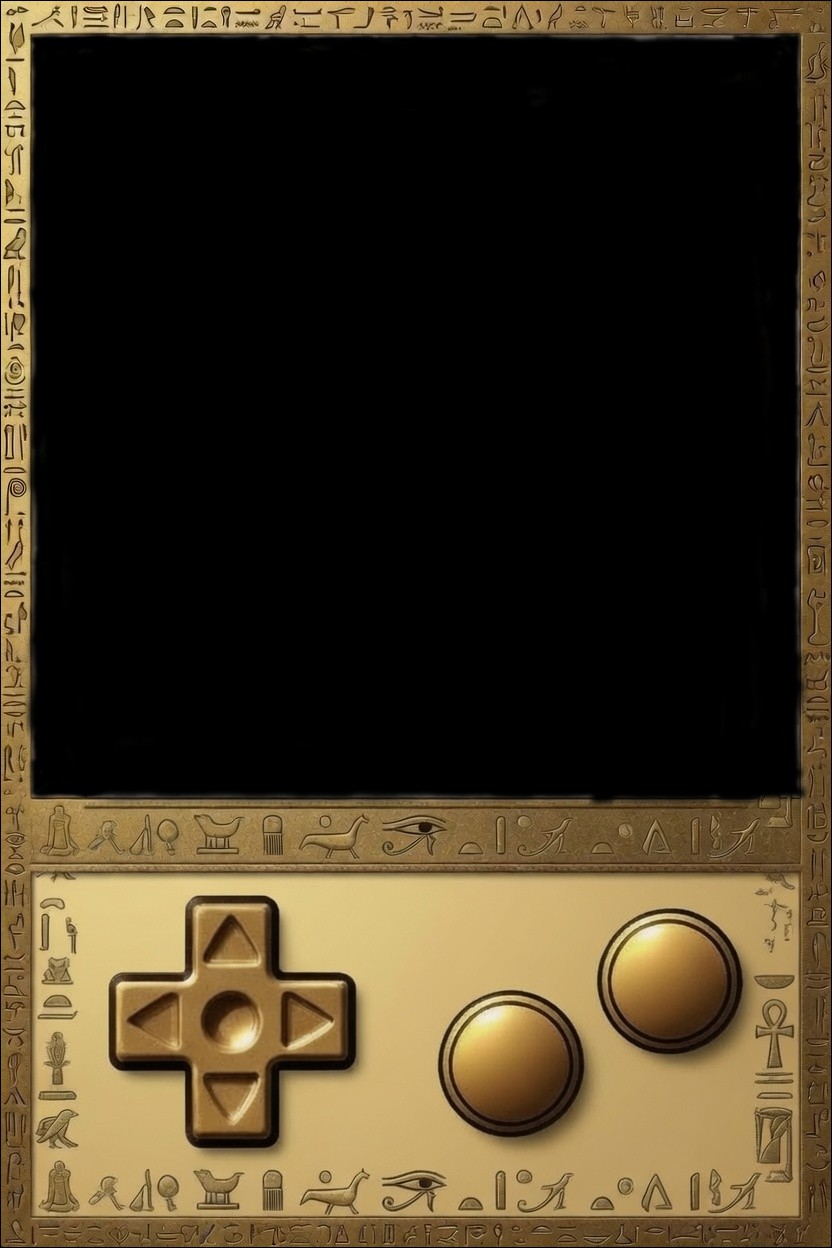
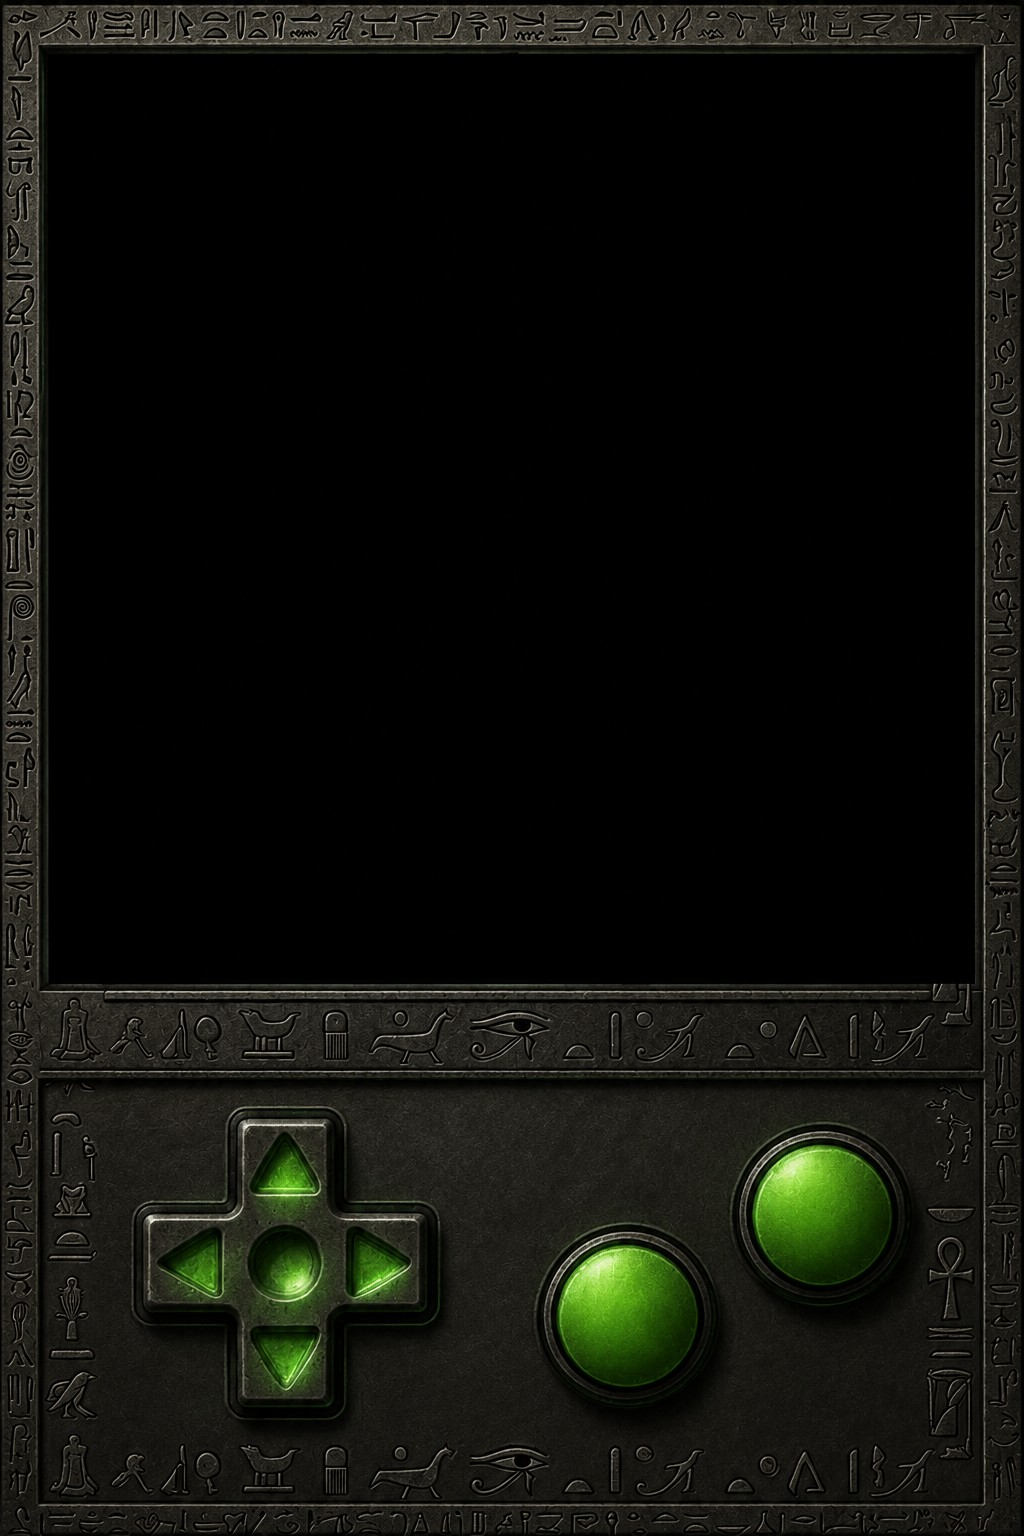
New dark/green console art + matching switch & mute
- Replace the gold/sandstone console shell with the dark stone + green-glow
  handheld (fits the death-cult look). Same 2:3 template, so the screen bezel
  and d-pad/button hit zones line up; nudged the bezel bounds to the new art's
  exact measurements and updated the aspect ratio.
- Restyle the power switch from a gold wood pill to a dark gunmetal toggle
  that glows green when ON (knob geometry unchanged so the drag logic still
  works), and recolor the mute button gold -> green to match.

Claude-Session: https://claude.ai/code/session_019JSm2BXiAiXnfPc2sSphak

diff --git a/web/styles.css b/web/styles.css
@@ -30,7 +30,7 @@ html, body {
 .console {
   position: relative;
   width: min(92vw, 480px);
-  aspect-ratio: 832 / 1248;
+  aspect-ratio: 1024 / 1536;
   user-select: none;
   -webkit-user-select: none;
   filter: drop-shadow(0 18px 40px rgba(0, 0, 0, 0.6));
@@ -50,10 +50,10 @@ html, body {
 /* ===== Screen ===== */
 .screen-bezel {
   position: absolute;
-  left: 3.97%;
-  top: 2.96%;
-  width: 91.71%;
-  height: 60.58%;
+  left: 4.69%;
+  top: 3.45%;
+  width: 90.53%;
+  height: 60.61%;
   overflow: hidden;
   border-radius: 2px;
   background: #000;
@@ -95,22 +95,27 @@ html, body {
 .power-track {
   position: absolute;
   inset: 0;
-  background: linear-gradient(180deg, #7a5330 0%, #4d3220 55%, #3a2414 100%);
-  border: 0.5cqw solid #241608;
+  background: linear-gradient(180deg, #2b2e2b 0%, #17191a 55%, #0d0f0e 100%);
+  border: 0.5cqw solid #050706;
   border-radius: 2.6cqw;
-  box-shadow: inset 0 0.5cqw 0 rgba(210, 160, 90, 0.35),
-              inset 0 -0.6cqw 0.8cqw rgba(0, 0, 0, 0.55),
-              0 0.5cqw 0.7cqw rgba(0, 0, 0, 0.45);
+  box-shadow: inset 0 0.5cqw 0 rgba(120, 140, 120, 0.18),
+              inset 0 -0.6cqw 0.8cqw rgba(0, 0, 0, 0.7),
+              0 0.5cqw 0.7cqw rgba(0, 0, 0, 0.5);
   overflow: hidden;
 }
-/* recessed channel the knob rides in */
+/* recessed channel the knob rides in — faint green glow when powered */
 .power-track::before {
   content: '';
   position: absolute;
   left: 5%; right: 5%; top: 33%; height: 34%;
-  background: rgba(18, 10, 4, 0.6);
+  background: rgba(6, 10, 6, 0.7);
   border-radius: 2cqw;
-  box-shadow: inset 0 0.3cqw 0.5cqw rgba(0, 0, 0, 0.7);
+  box-shadow: inset 0 0.3cqw 0.5cqw rgba(0, 0, 0, 0.8);
+}
+.power-switch[aria-pressed="true"] .power-track {
+  box-shadow: inset 0 0.5cqw 0 rgba(120, 220, 120, 0.25),
+              inset 0 -0.6cqw 0.8cqw rgba(0, 0, 0, 0.7),
+              0 0 1.6cqw rgba(90, 200, 90, 0.4);
 }
 
 .power-txt {
@@ -120,16 +125,16 @@ html, body {
   font-family: 'Press Start 2P', 'Courier New', monospace;
   font-size: 1.7cqw;
   letter-spacing: 0.1cqw;
-  color: #e6c877;
-  opacity: 0.85;
+  color: #5c6b5a;
+  opacity: 0.9;
   pointer-events: none;
-  text-shadow: 0 0.2cqw 0 rgba(0, 0, 0, 0.6);
+  text-shadow: 0 0.2cqw 0 rgba(0, 0, 0, 0.7);
 }
 .power-txt.power-off { right: 8%; }
 .power-txt.power-on  { left: 8%; }
 .power-switch[aria-pressed="true"] .power-txt.power-on {
-  color: #b6f0a0;
-  text-shadow: 0 0 1.6cqw rgba(120, 220, 120, 0.8);
+  color: #8ef06e;
+  text-shadow: 0 0 1.6cqw rgba(120, 240, 110, 0.9);
 }
 
 .power-knob {
@@ -139,20 +144,26 @@ html, body {
   width: 44%;
   height: 78%;
   border-radius: 2.2cqw;
-  background: linear-gradient(180deg, #f8e9b6 0%, #d3aa52 45%, #a97f34 100%);
-  border: 0.4cqw solid #5a4014;
-  box-shadow: inset 0 0.4cqw 0 rgba(255, 248, 214, 0.75),
-              inset 0 -0.5cqw 0.5cqw rgba(90, 64, 20, 0.6),
-              0 0.6cqw 0.9cqw rgba(0, 0, 0, 0.55);
+  background: linear-gradient(180deg, #4a4f4a 0%, #2c302c 45%, #191c19 100%);
+  border: 0.4cqw solid #0a0c0a;
+  box-shadow: inset 0 0.4cqw 0 rgba(150, 170, 150, 0.4),
+              inset 0 -0.5cqw 0.5cqw rgba(0, 0, 0, 0.6),
+              0 0.6cqw 0.9cqw rgba(0, 0, 0, 0.6);
   transition: left 0.25s cubic-bezier(0.34, 1.56, 0.64, 1);
 }
-/* grip ridges on the knob */
+/* grip ridges on the knob — glow green when powered */
 .power-knob::after {
   content: '';
   position: absolute;
   left: 32%; right: 32%; top: 24%; bottom: 24%;
   background: repeating-linear-gradient(90deg,
-              rgba(90, 64, 20, 0.65) 0 0.4cqw, transparent 0.4cqw 1.3cqw);
+              rgba(10, 14, 10, 0.7) 0 0.4cqw, transparent 0.4cqw 1.3cqw);
+}
+.power-switch[aria-pressed="true"] .power-knob {
+  background: linear-gradient(180deg, #7fd66a 0%, #4ba03a 45%, #2f6e26 100%);
+  border-color: #1f3d18;
+  box-shadow: inset 0 0.4cqw 0 rgba(200, 255, 190, 0.6),
+              0 0 1.2cqw rgba(90, 220, 80, 0.7);
 }
 
 .power-switch.dragging .power-knob { transition: none; }
@@ -167,16 +178,16 @@ html, body {
   aspect-ratio: 1;
   z-index: 5;
   border-radius: 50%;
-  background: rgba(20, 13, 5, 0.7);
-  border: 1px solid #6b5227;
-  color: #c9a35f;
+  background: rgba(8, 14, 8, 0.72);
+  border: 1px solid #2f5a2a;
+  color: #7bbf5a;
   font-size: clamp(8px, 2.4cqw, 12px);
   line-height: 1;
   cursor: pointer;
   touch-action: none;
 }
 .mute-toggle[aria-pressed="true"] {
-  color: #6b5227;
+  color: #2f5a2a;
   text-decoration: line-through;
 }
 
